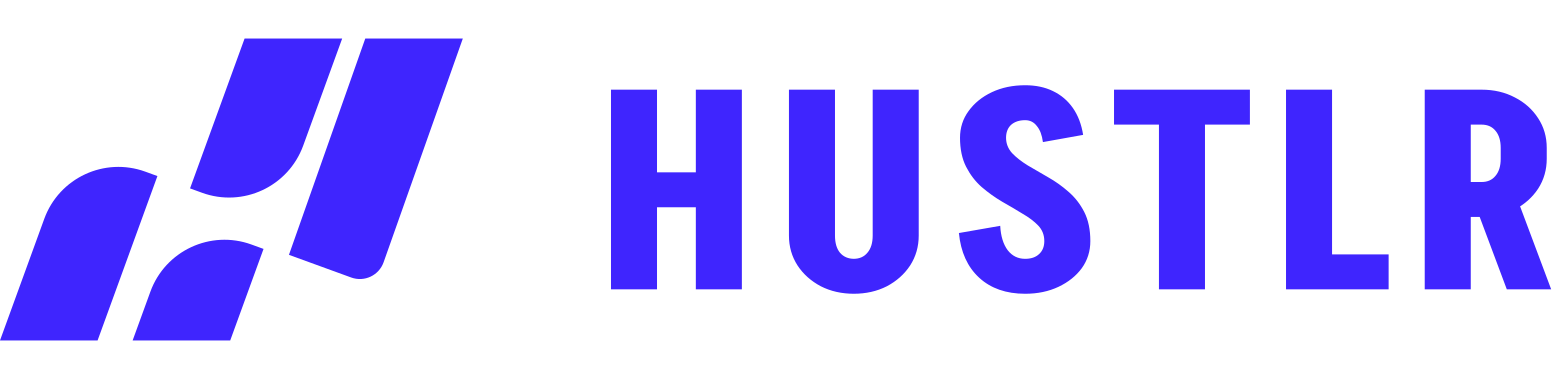
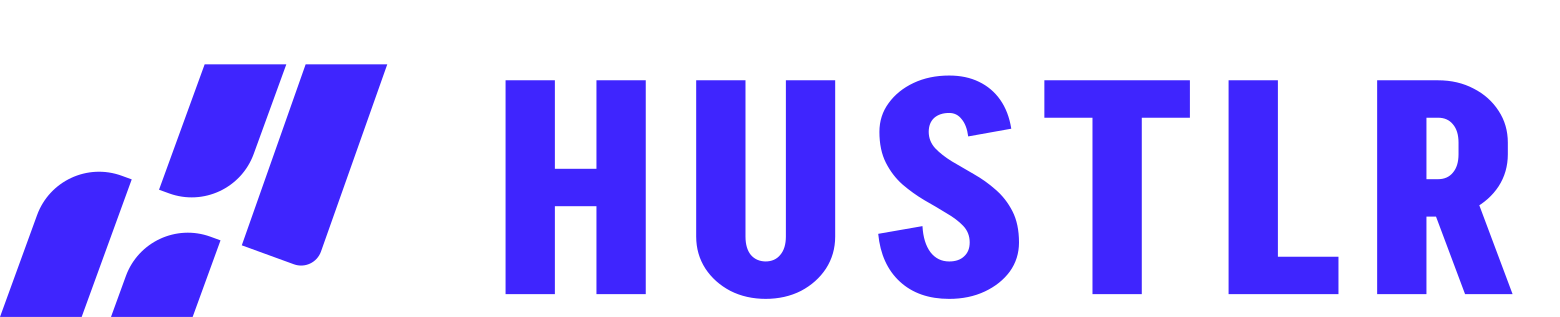
Brand: use the designer's lockup instead of my own composition
The website logo looked wrong because I built the lockup myself. I placed the mark
and wordmark side by side and picked the gap and the wordmark height by eye. Measured
against the designer's own lockup (Group 87) my version was 4.12 wide-to-tall where
theirs is 4.92 — the wordmark too small, the spacing off. Same mistake as the app
icon: they had already composed it and I re-derived it.

Group 87 carries 10 paths but only 5 are artwork — index 1 is the solid wordmark and
3/5/7/9 the four mark shapes; the rest are stroke duplicates and a mask-driven
outline. Taking those five in the designer's own coordinate space keeps their spacing
exactly, and the whole lockup still recolours cleanly for blue/cream/ink.

The landing page was the worst case: web/app/page.tsx placed HustlrMark beside
HustlrWordmark at h-26/h-19 — a 0.731 height ratio where the designer's is 0.885 —
so the header and footer had spacing that existed nowhere in the brand. Both now
render one HustlrLockup glyph, which has no gap to get wrong.

Logo ratios are the designer's 11818/2401 throughout. Verified header, footer and the
login lockup render correctly with no console errors.

diff --git a/web/components/brand/glyphs.tsx b/web/components/brand/glyphs.tsx
@@ -16,6 +16,22 @@ function glyph(viewBox: string, d: string, fillRule?: "evenodd") {
 }
 
 // v3 mark — four separate shapes, so it can't use the single-path glyph() helper.
+
+// The designer's composed horizontal lockup (mark + wordmark in one coordinate
+// space), so the spacing between them is theirs and cannot drift. Prefer this over
+// placing HustlrMark and HustlrWordmark side by side and guessing the gap.
+export function HustlrLockup(props: GlyphProps) {
+  return (
+    <svg viewBox="0 0 11818 2401" fill="currentColor" aria-hidden focusable="false" {...props}>
+      <path d="M3965 1562V1278.5H4653.5V1562H3965ZM4518.5 2228V608H4892V2228H4518.5ZM3830 2228V608H4203.5V2228H3830ZM5953.54 1793.75V608H6327.04V1793.75H5953.54ZM5274.04 1793.75V608H5647.54V1793.75H5274.04ZM6327.04 1791.5C6327.04 1881.5 6303.79 1962.5 6257.29 2034.5C6210.79 2105 6147.79 2161.25 6068.29 2203.25C5988.79 2243.75 5898.79 2264 5798.29 2264V1980.5C5846.29 1980.5 5883.79 1964 5910.79 1931C5939.29 1898 5953.54 1851.5 5953.54 1791.5H6327.04ZM5274.04 1791.5H5647.54C5647.54 1851.5 5661.04 1898 5688.04 1931C5716.54 1964 5754.79 1980.5 5802.79 1980.5V2264C5702.29 2264 5612.29 2243.75 5532.79 2203.25C5453.29 2161.25 5390.29 2105 5343.79 2034.5C5297.29 1962.5 5274.04 1881.5 5274.04 1791.5ZM7346.05 1836.5C7346.05 1787 7329.55 1745 7296.55 1710.5C7263.55 1676 7220.8 1643.75 7168.3 1613.75C7117.3 1582.25 7062.55 1550 7004.05 1517C6945.55 1482.5 6890.05 1442.75 6837.55 1397.75C6786.55 1352.75 6744.55 1298 6711.55 1233.5C6678.55 1169 6662.05 1090.25 6662.05 997.25H7035.55C7035.55 1045.25 7052.05 1087.25 7085.05 1123.25C7118.05 1157.75 7160.05 1190.75 7211.05 1222.25C7263.55 1252.25 7319.05 1284.5 7377.55 1319C7436.05 1352 7490.8 1391 7541.8 1436C7594.3 1481 7637.05 1535.75 7670.05 1600.25C7703.05 1664.75 7719.55 1743.5 7719.55 1836.5H7346.05ZM6662.05 999.5C6662.05 917 6685.3 844.25 6731.8 781.25C6778.3 716.75 6841.3 665.75 6920.8 628.25C7000.3 590.75 7090.3 572 7190.8 572V855.5C7142.8 855.5 7104.55 868.25 7076.05 893.75C7049.05 919.25 7035.55 954.5 7035.55 999.5H6662.05ZM7719.55 1836.5C7719.55 1919 7696.3 1992.5 7649.8 2057C7603.3 2120 7540.3 2170.25 7460.8 2207.75C7381.3 2245.25 7291.3 2264 7190.8 2264V1980.5C7238.8 1980.5 7276.3 1967.75 7303.3 1942.25C7331.8 1916.75 7346.05 1881.5 7346.05 1836.5H7719.55ZM7334.8 1033.25C7327.3 976.25 7310.8 932.75 7285.3 902.75C7261.3 871.25 7229.8 855.5 7190.8 855.5V572C7276.3 572 7351.3 587.75 7415.8 619.25C7481.8 650.75 7535.8 696.5 7577.8 756.5C7619.8 816.5 7647.55 889.25 7661.05 974.75L7334.8 1033.25ZM6988.3 1712.75C6992.8 1796.75 7013.05 1862.75 7049.05 1910.75C7085.05 1957.25 7132.3 1980.5 7190.8 1980.5V2264C7036.3 2264 6911.8 2220.5 6817.3 2133.5C6722.8 2046.5 6668.05 1925.75 6653.05 1771.25L6988.3 1712.75ZM7911.73 891.5V608H9014.23V891.5H7911.73ZM8276.23 2228V608H8649.73V2228H8276.23ZM9613.34 2228V1944.5H10139.8V2228H9613.34ZM9307.34 2228V608H9680.84V2228H9307.34ZM11098.8 2228L10819.8 1483.25H11179.8L11458.8 2228H11098.8ZM10783.8 1640.75V1357.25H10896.3V1640.75H10783.8ZM10783.8 891.5V608H10896.3V891.5H10783.8ZM11049.3 1170.5V1078.25H11422.8V1170.5H11049.3ZM11422.8 1080.5H11049.3C11049.3 1020.5 11035 974 11006.5 941C10979.5 908 10942 891.5 10894 891.5V608C10994.5 608 11084.5 629 11164 671C11243.5 711.5 11306.5 767.75 11353 839.75C11399.5 910.25 11422.8 990.5 11422.8 1080.5ZM11422.8 1168.25C11422.8 1258.25 11399.5 1339.25 11353 1411.25C11306.5 1481.75 11243.5 1538 11164 1580C11084.5 1620.5 10994.5 1640.75 10894 1640.75V1357.25C10942 1357.25 10979.5 1340.75 11006.5 1307.75C11035 1274.75 11049.3 1228.25 11049.3 1168.25H11422.8ZM10432.8 2228V608H10806.3V2228H10432.8Z" />
+      <path d="M953.302 2091.68C1047.75 1832.19 1334.67 1698.4 1594.16 1792.85L1670.57 1820.66L1459.39 2400.86H840.77L953.302 2091.68Z" />
+      <path d="M1921.97 1165.97C1827.52 1425.46 1540.6 1559.26 1281.11 1464.81L1204.7 1437L1550.47 487H2169.1L1921.97 1165.97Z" />
+      <path d="M2431.72 1905.15C2402.1 1988.81 2309.96 2032.27 2226.56 2001.91L1831.69 1858.19L2315.52 487H2933.89L2431.72 1905.15Z" />
+      <path d="M280.632 1629.83C375.078 1370.34 661.999 1236.55 921.488 1330.99L997.899 1358.8L618.623 2400.86H0L280.632 1629.83Z" />
+    </svg>
+  );
+}
+
 export function HustlrMark(props: GlyphProps) {
   return (
     <svg viewBox="0 0 2934 1914" fill="currentColor" aria-hidden focusable="false" {...props}>

diff --git a/web/app/page.tsx b/web/app/page.tsx
@@ -3,6 +3,7 @@ import { Akshar, JetBrains_Mono } from "next/font/google";
 import {
   HustlrMark,
   HustlrWordmark,
+  HustlrLockup,
   IconArrow,
   IconBriefcase,
   IconCampus,
@@ -158,9 +159,8 @@ export default function LandingPage() {
       <header
         className={`flex items-center justify-between gap-3 border-b border-[#363636]/8 py-[22px] sm:gap-8 ${gutter}`}
       >
-        <Link href="/" className="flex shrink-0 items-center gap-2 sm:gap-3">
-          <HustlrMark className="h-[26px] w-auto text-[#3F25FE] sm:h-[30px]" />
-          <HustlrWordmark className="h-[19px] w-auto text-[#3F25FE] sm:h-[23px]" />
+        <Link href="/" className="flex shrink-0 items-center">
+          <HustlrLockup className="h-[33px] w-auto text-[#3F25FE] sm:h-[38px]" />
           <span className="sr-only">Hustlr — home</span>
         </Link>
 
@@ -541,9 +541,8 @@ export default function LandingPage() {
       <footer className={`bg-[#363636] pt-16 pb-10 ${gutter}`}>
         <div className="mb-12 flex flex-wrap justify-between gap-14">
           <div className="max-w-[34ch]">
-            <div className="mb-[18px] flex items-center gap-3">
-              <HustlrMark className="h-[30px] w-auto text-[#FEF4E5]" />
-              <HustlrWordmark className="h-[23px] w-auto text-[#FEF4E5]" />
+            <div className="mb-[18px] flex items-center">
+              <HustlrLockup className="h-[38px] w-auto text-[#FEF4E5]" />
             </div>
             <p className="m-0 text-[14px] leading-[1.6] text-[#FEF4E5]/60">
               The campus gig marketplace. Real work, verified students, money that actually lands.

diff --git a/web/components/Logo.tsx b/web/components/Logo.tsx
@@ -14,7 +14,7 @@ import { classNames } from "@/lib/format";
 // the art is replaced — a stale ratio silently stretches every logo in the app.
 // Note the v3 wordmark art is the full horizontal lockup (H-mark + "HUSTLR"), not
 // text alone, which is why it is far wider than the version it replaced.
-const WORDMARK_RATIO = 1560 / 379; // wordmark-*.png (the horizontal lockup)
+const WORDMARK_RATIO = 11818 / 2401; // wordmark-*.png (the horizontal lockup)
 const MONOGRAM_RATIO = 620 / 404; // monogram-*.png
 
 export default function Logo({

diff --git a/src/components/Logo.js b/src/components/Logo.js
@@ -12,7 +12,7 @@ import { Image, View } from 'react-native';
 const WORDMARK = {
   blue: require('../../shared/assets/brand/wordmark-blue.png'),
   cream: require('../../shared/assets/brand/wordmark-cream.png'),
-  ratio: 1560 / 379,
+  ratio: 11818 / 2401,
 };
 const MONOGRAM = {
   blue: require('../../shared/assets/brand/monogram-blue.png'),
